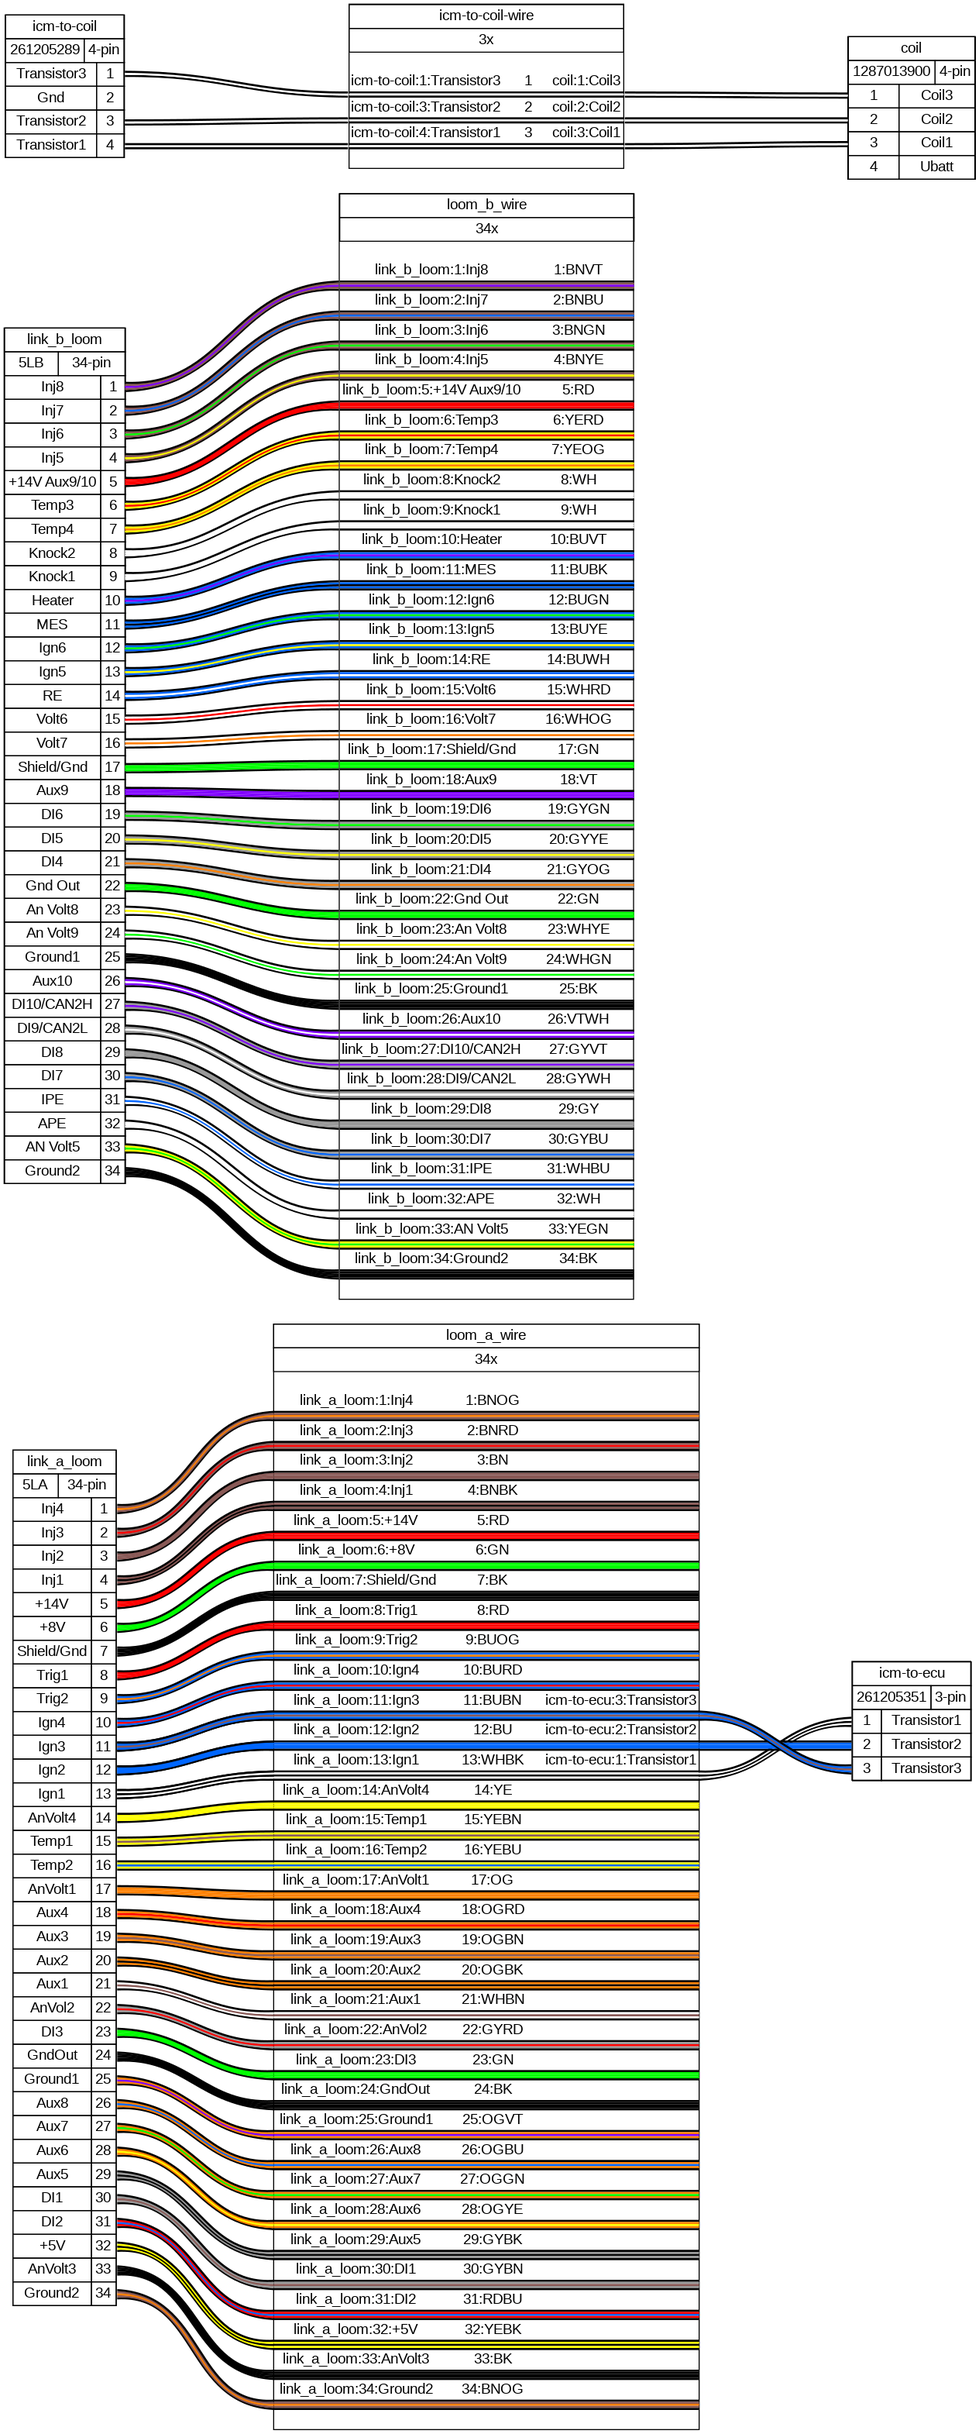
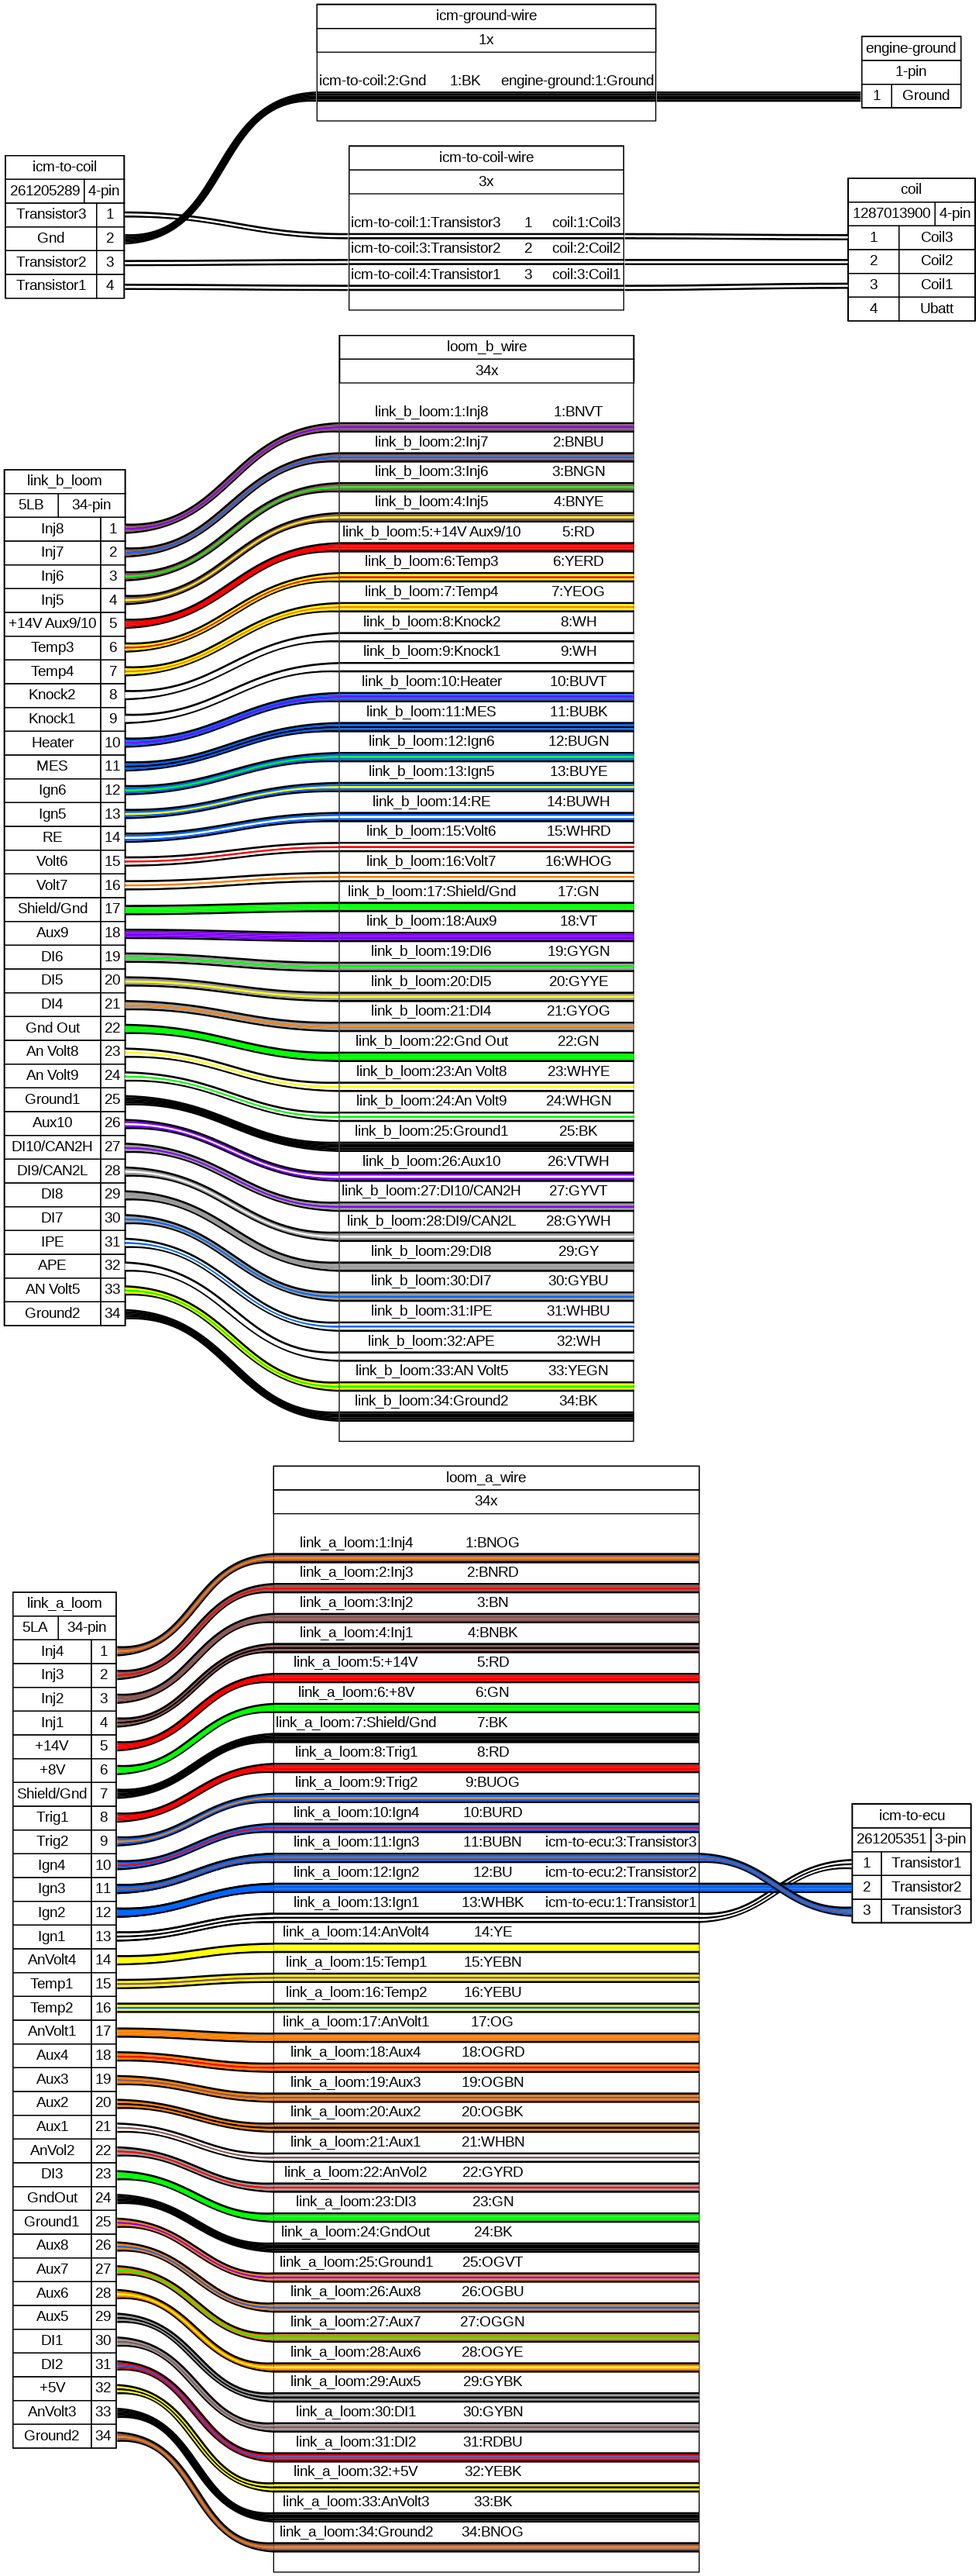
Add a ground for the icm

diff --git a/corrado.html b/corrado.html
@@ -10,11 +10,11 @@
 <!-- Generated by graphviz version 2.43.0 (0)
  -->
 <!-- Title: %3 Pages: 1 -->
-<svg width="948pt" height="2356pt"
- viewBox="0.00 0.00 948.00 2355.50" xmlns="http://www.w3.org/2000/svg" xmlns:xlink="http://www.w3.org/1999/xlink">
-<g id="graph0" class="graph" transform="scale(1 1) rotate(0) translate(4 2351.5)">
+<svg width="948pt" height="2493pt"
+ viewBox="0.00 0.00 948.00 2492.50" xmlns="http://www.w3.org/2000/svg" xmlns:xlink="http://www.w3.org/1999/xlink">
+<g id="graph0" class="graph" transform="scale(1 1) rotate(0) translate(4 2488.5)">
 <title>%3</title>
-<polygon fill="#ffffff" stroke="transparent" points="-4,4 -4,-2351.5 944,-2351.5 944,4 -4,4"/>
+<polygon fill="#ffffff" stroke="transparent" points="-4,4 -4,-2488.5 944,-2488.5 944,4 -4,4"/>
 <!-- link_a_loom -->
 <g id="node1" class="node">
 <title>link_a_loom</title>
@@ -163,7 +163,7 @@
 <text text-anchor="start" x="88.5" y="-127.8" font-family="arial" font-size="14.00">34</text>
 </g>
 <!-- loom_a_wire -->
-<g id="node6" class="node">
+<g id="node7" class="node">
 <title>loom_a_wire</title>
 <polygon fill="#ffffff" stroke="black" points="673,-1070 261,-1070 261,0 673,0 673,-1070"/>
 <polygon fill="none" stroke="black" points="261,-1047 261,-1070 673,-1070 673,-1047 261,-1047"/>
@@ -895,7 +895,7 @@
 <text text-anchor="start" x="97.5" y="-1213.8" font-family="arial" font-size="14.00">34</text>
 </g>
 <!-- loom_b_wire -->
-<g id="node7" class="node">
+<g id="node8" class="node">
 <title>loom_b_wire</title>
 <polygon fill="#ffffff" stroke="black" points="609.5,-2164 324.5,-2164 324.5,-1094 609.5,-1094 609.5,-2164"/>
 <polygon fill="none" stroke="black" points="325,-2141 325,-2164 610,-2164 610,-2141 325,-2141"/>
@@ -1475,32 +1475,32 @@
 <!-- icm&#45;to&#45;coil -->
 <g id="node4" class="node">
 <title>icm&#45;to&#45;coil</title>
-<polygon fill="#ffffff" stroke="black" points="116,-2337 1,-2337 1,-2199 116,-2199 116,-2337"/>
-<polygon fill="none" stroke="black" points="1.5,-2314 1.5,-2337 116.5,-2337 116.5,-2314 1.5,-2314"/>
-<text text-anchor="start" x="27.5" y="-2321.8" font-family="arial" font-size="14.00">icm&#45;to&#45;coil</text>
-<polygon fill="none" stroke="black" points="1.5,-2291 1.5,-2314 77.5,-2314 77.5,-2291 1.5,-2291"/>
-<text text-anchor="start" x="5.5" y="-2298.8" font-family="arial" font-size="14.00">261205289</text>
-<polygon fill="none" stroke="black" points="77.5,-2291 77.5,-2314 116.5,-2314 116.5,-2291 77.5,-2291"/>
-<text text-anchor="start" x="81.5" y="-2298.8" font-family="arial" font-size="14.00">4&#45;pin</text>
-<polygon fill="none" stroke="black" points="1.5,-2268 1.5,-2291 89.5,-2291 89.5,-2268 1.5,-2268"/>
-<text text-anchor="start" x="11.5" y="-2275.8" font-family="arial" font-size="14.00">Transistor3</text>
-<polygon fill="none" stroke="black" points="89.5,-2268 89.5,-2291 116.5,-2291 116.5,-2268 89.5,-2268"/>
-<text text-anchor="start" x="99" y="-2275.8" font-family="arial" font-size="14.00">1</text>
-<polygon fill="none" stroke="black" points="1.5,-2245 1.5,-2268 89.5,-2268 89.5,-2245 1.5,-2245"/>
-<text text-anchor="start" x="32" y="-2252.8" font-family="arial" font-size="14.00">Gnd</text>
-<polygon fill="none" stroke="black" points="89.5,-2245 89.5,-2268 116.5,-2268 116.5,-2245 89.5,-2245"/>
-<text text-anchor="start" x="99" y="-2252.8" font-family="arial" font-size="14.00">2</text>
-<polygon fill="none" stroke="black" points="1.5,-2222 1.5,-2245 89.5,-2245 89.5,-2222 1.5,-2222"/>
-<text text-anchor="start" x="11.5" y="-2229.8" font-family="arial" font-size="14.00">Transistor2</text>
-<polygon fill="none" stroke="black" points="89.5,-2222 89.5,-2245 116.5,-2245 116.5,-2222 89.5,-2222"/>
-<text text-anchor="start" x="99" y="-2229.8" font-family="arial" font-size="14.00">3</text>
-<polygon fill="none" stroke="black" points="1.5,-2199 1.5,-2222 89.5,-2222 89.5,-2199 1.5,-2199"/>
-<text text-anchor="start" x="11.5" y="-2206.8" font-family="arial" font-size="14.00">Transistor1</text>
-<polygon fill="none" stroke="black" points="89.5,-2199 89.5,-2222 116.5,-2222 116.5,-2199 89.5,-2199"/>
-<text text-anchor="start" x="99" y="-2206.8" font-family="arial" font-size="14.00">4</text>
+<polygon fill="#ffffff" stroke="black" points="116,-2338 1,-2338 1,-2200 116,-2200 116,-2338"/>
+<polygon fill="none" stroke="black" points="1.5,-2315 1.5,-2338 116.5,-2338 116.5,-2315 1.5,-2315"/>
+<text text-anchor="start" x="27.5" y="-2322.8" font-family="arial" font-size="14.00">icm&#45;to&#45;coil</text>
+<polygon fill="none" stroke="black" points="1.5,-2292 1.5,-2315 77.5,-2315 77.5,-2292 1.5,-2292"/>
+<text text-anchor="start" x="5.5" y="-2299.8" font-family="arial" font-size="14.00">261205289</text>
+<polygon fill="none" stroke="black" points="77.5,-2292 77.5,-2315 116.5,-2315 116.5,-2292 77.5,-2292"/>
+<text text-anchor="start" x="81.5" y="-2299.8" font-family="arial" font-size="14.00">4&#45;pin</text>
+<polygon fill="none" stroke="black" points="1.5,-2269 1.5,-2292 89.5,-2292 89.5,-2269 1.5,-2269"/>
+<text text-anchor="start" x="11.5" y="-2276.8" font-family="arial" font-size="14.00">Transistor3</text>
+<polygon fill="none" stroke="black" points="89.5,-2269 89.5,-2292 116.5,-2292 116.5,-2269 89.5,-2269"/>
+<text text-anchor="start" x="99" y="-2276.8" font-family="arial" font-size="14.00">1</text>
+<polygon fill="none" stroke="black" points="1.5,-2246 1.5,-2269 89.5,-2269 89.5,-2246 1.5,-2246"/>
+<text text-anchor="start" x="32" y="-2253.8" font-family="arial" font-size="14.00">Gnd</text>
+<polygon fill="none" stroke="black" points="89.5,-2246 89.5,-2269 116.5,-2269 116.5,-2246 89.5,-2246"/>
+<text text-anchor="start" x="99" y="-2253.8" font-family="arial" font-size="14.00">2</text>
+<polygon fill="none" stroke="black" points="1.5,-2223 1.5,-2246 89.5,-2246 89.5,-2223 1.5,-2223"/>
+<text text-anchor="start" x="11.5" y="-2230.8" font-family="arial" font-size="14.00">Transistor2</text>
+<polygon fill="none" stroke="black" points="89.5,-2223 89.5,-2246 116.5,-2246 116.5,-2223 89.5,-2223"/>
+<text text-anchor="start" x="99" y="-2230.8" font-family="arial" font-size="14.00">3</text>
+<polygon fill="none" stroke="black" points="1.5,-2200 1.5,-2223 89.5,-2223 89.5,-2200 1.5,-2200"/>
+<text text-anchor="start" x="11.5" y="-2207.8" font-family="arial" font-size="14.00">Transistor1</text>
+<polygon fill="none" stroke="black" points="89.5,-2200 89.5,-2223 116.5,-2223 116.5,-2200 89.5,-2200"/>
+<text text-anchor="start" x="99" y="-2207.8" font-family="arial" font-size="14.00">4</text>
 </g>
 <!-- icm&#45;to&#45;coil&#45;wire -->
-<g id="node8" class="node">
+<g id="node9" class="node">
 <title>icm&#45;to&#45;coil&#45;wire</title>
 <polygon fill="#ffffff" stroke="black" points="600,-2347.5 334,-2347.5 334,-2188.5 600,-2188.5 600,-2347.5"/>
 <polygon fill="none" stroke="black" points="334,-2324 334,-2347 600,-2347 600,-2324 334,-2324"/>
@@ -1531,23 +1531,51 @@
 <!-- icm&#45;to&#45;coil&#45;&#45;icm&#45;to&#45;coil&#45;wire -->
 <g id="edge75" class="edge">
 <title>icm&#45;to&#45;coil:e&#45;&#45;icm&#45;to&#45;coil&#45;wire:w</title>
-<path fill="none" stroke="#000000" stroke-width="2" d="M117,-2208C213,-2208 237,-2208 333,-2208"/>
-<path fill="none" stroke="#ffffff" stroke-width="2" d="M117,-2210C213,-2210 237,-2210 333,-2210"/>
-<path fill="none" stroke="#000000" stroke-width="2" d="M117,-2212C213,-2212 237,-2212 333,-2212"/>
+<path fill="none" stroke="#000000" stroke-width="2" d="M117,-2209C212.92,-2209 236.92,-2208 333,-2208"/>
+<path fill="none" stroke="#ffffff" stroke-width="2" d="M117,-2211C213,-2211 237,-2210 333,-2210"/>
+<path fill="none" stroke="#000000" stroke-width="2" d="M117,-2213C213.08,-2213 237.08,-2212 333,-2212"/>
 </g>
 <!-- icm&#45;to&#45;coil&#45;&#45;icm&#45;to&#45;coil&#45;wire -->
 <g id="edge77" class="edge">
 <title>icm&#45;to&#45;coil:e&#45;&#45;icm&#45;to&#45;coil&#45;wire:w</title>
-<path fill="none" stroke="#000000" stroke-width="2" d="M117,-2231C213.17,-2231.01 237.16,-2233.01 333,-2233"/>
-<path fill="none" stroke="#ffffff" stroke-width="2" d="M117,-2233C213,-2233 237,-2235 333,-2235"/>
-<path fill="none" stroke="#000000" stroke-width="2" d="M117,-2235C212.84,-2234.99 236.83,-2236.99 333,-2237"/>
+<path fill="none" stroke="#000000" stroke-width="2" d="M117,-2232C213.08,-2232 237.08,-2233 333,-2233"/>
+<path fill="none" stroke="#ffffff" stroke-width="2" d="M117,-2234C213,-2234 237,-2235 333,-2235"/>
+<path fill="none" stroke="#000000" stroke-width="2" d="M117,-2236C212.92,-2236 236.92,-2237 333,-2237"/>
 </g>
 <!-- icm&#45;to&#45;coil&#45;&#45;icm&#45;to&#45;coil&#45;wire -->
 <g id="edge79" class="edge">
 <title>icm&#45;to&#45;coil:e&#45;&#45;icm&#45;to&#45;coil&#45;wire:w</title>
-<path fill="none" stroke="#000000" stroke-width="2" d="M117,-2278C212.1,-2278.49 235.28,-2258.49 333,-2258"/>
-<path fill="none" stroke="#ffffff" stroke-width="2" d="M117,-2280C213.41,-2280 236.59,-2260 333,-2260"/>
-<path fill="none" stroke="#000000" stroke-width="2" d="M117,-2282C214.72,-2281.51 237.9,-2261.51 333,-2262"/>
+<path fill="none" stroke="#000000" stroke-width="2" d="M117,-2279C212.11,-2279.52 235.2,-2258.52 333,-2258"/>
+<path fill="none" stroke="#ffffff" stroke-width="2" d="M117,-2281C213.45,-2281 236.55,-2260 333,-2260"/>
+<path fill="none" stroke="#000000" stroke-width="2" d="M117,-2283C214.8,-2282.48 237.89,-2261.48 333,-2262"/>
+</g>
+<!-- icm&#45;ground&#45;wire -->
+<g id="node10" class="node">
+<title>icm&#45;ground&#45;wire</title>
+<polygon fill="#ffffff" stroke="black" points="631,-2484.5 303,-2484.5 303,-2371.5 631,-2371.5 631,-2484.5"/>
+<polygon fill="none" stroke="black" points="303,-2461 303,-2484 631,-2484 631,-2461 303,-2461"/>
+<text text-anchor="start" x="418" y="-2468.8" font-family="arial" font-size="14.00">icm&#45;ground&#45;wire</text>
+<polygon fill="none" stroke="black" points="303,-2438 303,-2461 631,-2461 631,-2438 303,-2438"/>
+<text text-anchor="start" x="459.5" y="-2445.8" font-family="arial" font-size="14.00">1x</text>
+<text text-anchor="start" x="355" y="-2424.8" font-family="arial" font-size="14.00"> </text>
+<text text-anchor="start" x="305" y="-2405.8" font-family="arial" font-size="14.00">icm&#45;to&#45;coil:2:Gnd</text>
+<text text-anchor="start" x="413" y="-2405.8" font-family="arial" font-size="14.00"> &#160;&#160;&#160;&#160;1:BK &#160;&#160;&#160;</text>
+<text text-anchor="start" x="481" y="-2405.8" font-family="arial" font-size="14.00">engine&#45;ground:1:Ground</text>
+<polygon fill="#000000" stroke="transparent" points="303,-2398 303,-2400 631,-2400 631,-2398 303,-2398"/>
+<polygon fill="#000000" stroke="transparent" points="303,-2396 303,-2398 631,-2398 631,-2396 303,-2396"/>
+<polygon fill="#000000" stroke="transparent" points="303,-2394 303,-2396 631,-2396 631,-2394 303,-2394"/>
+<polygon fill="#000000" stroke="transparent" points="303,-2392 303,-2394 631,-2394 631,-2392 303,-2392"/>
+<polygon fill="#000000" stroke="transparent" points="303,-2390 303,-2392 631,-2392 631,-2390 303,-2390"/>
+<text text-anchor="start" x="355" y="-2376.8" font-family="arial" font-size="14.00"> </text>
+</g>
+<!-- icm&#45;to&#45;coil&#45;&#45;icm&#45;ground&#45;wire -->
+<g id="edge81" class="edge">
+<title>icm&#45;to&#45;coil:e&#45;&#45;icm&#45;ground&#45;wire:w</title>
+<path fill="none" stroke="#000000" stroke-width="2" d="M117,-2253C223.54,-2257.58 203.38,-2395.58 302,-2391"/>
+<path fill="none" stroke="#000000" stroke-width="2" d="M117,-2255C221.56,-2257.29 201.4,-2395.29 302,-2393"/>
+<path fill="none" stroke="#000000" stroke-width="2" d="M117,-2257C219.58,-2257 199.42,-2395 302,-2395"/>
+<path fill="none" stroke="#000000" stroke-width="2" d="M117,-2259C217.6,-2256.71 197.44,-2394.71 302,-2397"/>
+<path fill="none" stroke="#000000" stroke-width="2" d="M117,-2261C215.62,-2256.42 195.46,-2394.42 302,-2399"/>
 </g>
 <!-- coil -->
 <g id="node5" class="node">
@@ -1575,6 +1603,19 @@
 <text text-anchor="start" x="838" y="-2185.8" font-family="arial" font-size="14.00">4</text>
 <polygon fill="none" stroke="black" points="866.5,-2178 866.5,-2201 940.5,-2201 940.5,-2178 866.5,-2178"/>
 <text text-anchor="start" x="887" y="-2185.8" font-family="arial" font-size="14.00">Ubatt</text>
+</g>
+<!-- engine&#45;ground -->
+<g id="node6" class="node">
+<title>engine&#45;ground</title>
+<polygon fill="#ffffff" stroke="black" points="926.5,-2453.5 830.5,-2453.5 830.5,-2384.5 926.5,-2384.5 926.5,-2453.5"/>
+<polygon fill="none" stroke="black" points="830.5,-2430 830.5,-2453 926.5,-2453 926.5,-2430 830.5,-2430"/>
+<text text-anchor="start" x="834.5" y="-2437.8" font-family="arial" font-size="14.00">engine&#45;ground</text>
+<polygon fill="none" stroke="black" points="830.5,-2407 830.5,-2430 926.5,-2430 926.5,-2407 830.5,-2407"/>
+<text text-anchor="start" x="863" y="-2414.8" font-family="arial" font-size="14.00">1&#45;pin</text>
+<polygon fill="none" stroke="black" points="830.5,-2384 830.5,-2407 859.5,-2407 859.5,-2384 830.5,-2384"/>
+<text text-anchor="start" x="841" y="-2391.8" font-family="arial" font-size="14.00">1</text>
+<polygon fill="none" stroke="black" points="859.5,-2384 859.5,-2407 926.5,-2407 926.5,-2384 859.5,-2384"/>
+<text text-anchor="start" x="870" y="-2391.8" font-family="arial" font-size="14.00">Ground</text>
 </g>
 <!-- loom_a_wire&#45;&#45;icm&#45;to&#45;ecu -->
 <g id="edge36" class="edge">
@@ -1624,6 +1665,15 @@
 <path fill="none" stroke="#ffffff" stroke-width="2" d="M601,-2260C697,-2260 721,-2259 817,-2259"/>
 <path fill="none" stroke="#000000" stroke-width="2" d="M601,-2262C697.08,-2262 721.08,-2261 817,-2261"/>
 </g>
+<!-- icm&#45;ground&#45;wire&#45;&#45;engine&#45;ground -->
+<g id="edge82" class="edge">
+<title>icm&#45;ground&#45;wire:e&#45;&#45;engine&#45;ground:w</title>
+<path fill="none" stroke="#000000" stroke-width="2" d="M632,-2391C719.78,-2391 741.72,-2391 829.5,-2391"/>
+<path fill="none" stroke="#000000" stroke-width="2" d="M632,-2393C719.78,-2393 741.72,-2393 829.5,-2393"/>
+<path fill="none" stroke="#000000" stroke-width="2" d="M632,-2395C719.78,-2395 741.72,-2395 829.5,-2395"/>
+<path fill="none" stroke="#000000" stroke-width="2" d="M632,-2397C719.78,-2397 741.72,-2397 829.5,-2397"/>
+<path fill="none" stroke="#000000" stroke-width="2" d="M632,-2399C719.78,-2399 741.72,-2399 829.5,-2399"/>
+</g>
 </g>
 </svg>
 <h2>Bill of Materials</h2>
@@ -1637,48 +1687,62 @@
  </tr>
  <tr>
   <td style="border:1px solid #000000; padding: 4px">1</td>
+  <td style="border:1px solid #000000; padding: 4px">Cable, 1 wires</td>
+  <td style="border:1px solid #000000; padding: 4px; text-align:right">0</td>
+  <td style="border:1px solid #000000; padding: 4px">m</td>
+  <td style="border:1px solid #000000; padding: 4px">icm-ground-wire</td>
+ </tr>
+ <tr>
+  <td style="border:1px solid #000000; padding: 4px">2</td>
   <td style="border:1px solid #000000; padding: 4px">Cable, 3 wires</td>
   <td style="border:1px solid #000000; padding: 4px; text-align:right">0</td>
   <td style="border:1px solid #000000; padding: 4px">m</td>
   <td style="border:1px solid #000000; padding: 4px">icm-to-coil-wire</td>
  </tr>
  <tr>
-  <td style="border:1px solid #000000; padding: 4px">2</td>
+  <td style="border:1px solid #000000; padding: 4px">3</td>
   <td style="border:1px solid #000000; padding: 4px">Cable, 34 wires</td>
   <td style="border:1px solid #000000; padding: 4px; text-align:right">0</td>
   <td style="border:1px solid #000000; padding: 4px">m</td>
   <td style="border:1px solid #000000; padding: 4px">loom_a_wire, loom_b_wire</td>
  </tr>
  <tr>
-  <td style="border:1px solid #000000; padding: 4px">3</td>
+  <td style="border:1px solid #000000; padding: 4px">4</td>
+  <td style="border:1px solid #000000; padding: 4px">Connector, 1 pins</td>
+  <td style="border:1px solid #000000; padding: 4px; text-align:right">1</td>
+  <td style="border:1px solid #000000; padding: 4px"></td>
+  <td style="border:1px solid #000000; padding: 4px">engine-ground</td>
+ </tr>
+ <tr>
+  <td style="border:1px solid #000000; padding: 4px">5</td>
   <td style="border:1px solid #000000; padding: 4px">Connector, 1287013900, 4 pins</td>
   <td style="border:1px solid #000000; padding: 4px; text-align:right">1</td>
   <td style="border:1px solid #000000; padding: 4px"></td>
   <td style="border:1px solid #000000; padding: 4px">coil</td>
  </tr>
  <tr>
-  <td style="border:1px solid #000000; padding: 4px">4</td>
+  <td style="border:1px solid #000000; padding: 4px">6</td>
   <td style="border:1px solid #000000; padding: 4px">Connector, 261205289, 4 pins</td>
   <td style="border:1px solid #000000; padding: 4px; text-align:right">1</td>
   <td style="border:1px solid #000000; padding: 4px"></td>
   <td style="border:1px solid #000000; padding: 4px">icm-to-coil</td>
  </tr>
  <tr>
-  <td style="border:1px solid #000000; padding: 4px">5</td>
+  <td style="border:1px solid #000000; padding: 4px">7</td>
   <td style="border:1px solid #000000; padding: 4px">Connector, 261205351, 3 pins</td>
   <td style="border:1px solid #000000; padding: 4px; text-align:right">1</td>
   <td style="border:1px solid #000000; padding: 4px"></td>
   <td style="border:1px solid #000000; padding: 4px">icm-to-ecu</td>
  </tr>
  <tr>
-  <td style="border:1px solid #000000; padding: 4px">6</td>
+  <td style="border:1px solid #000000; padding: 4px">8</td>
   <td style="border:1px solid #000000; padding: 4px">Connector, 5LA, 34 pins</td>
   <td style="border:1px solid #000000; padding: 4px; text-align:right">1</td>
   <td style="border:1px solid #000000; padding: 4px"></td>
   <td style="border:1px solid #000000; padding: 4px">link_a_loom</td>
  </tr>
  <tr>
-  <td style="border:1px solid #000000; padding: 4px">7</td>
+  <td style="border:1px solid #000000; padding: 4px">9</td>
   <td style="border:1px solid #000000; padding: 4px">Connector, 5LB, 34 pins</td>
   <td style="border:1px solid #000000; padding: 4px; text-align:right">1</td>
   <td style="border:1px solid #000000; padding: 4px"></td>
